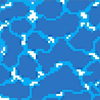
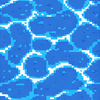
day 21 implemented grass, sand, water animations

diff --git a/src/render.py b/src/render.py
@@ -15,7 +15,7 @@ class Renderer:
         self.font = pygame.font.SysFont("rockwell", 20)
 
         self.tile_animation_tick = 0
-        self.tile_animation_speed = 15
+        self.tile_animation_speed = 5
         self.tile_animation_frame = 0
         self.tile_images = {
             "water":[
@@ -23,8 +23,16 @@ class Renderer:
                 pygame.image.load("data/assets/water_pixel_1.png").convert_alpha(),
                 pygame.image.load("data/assets/water_pixel_2.png").convert_alpha()
             ],
-            "sand": [pygame.image.load("data/assets/sand_pixel.png").convert_alpha()],
-            "grass": [pygame.image.load("data/assets/grass_pixel.png").convert_alpha()],
+            "sand":[
+                pygame.image.load("data/assets/sand_pixel_0.png").convert_alpha(),
+                pygame.image.load("data/assets/sand_pixel_1.png").convert_alpha(),
+                pygame.image.load("data/assets/sand_pixel_2.png").convert_alpha()
+            ],
+            "grass":[
+                pygame.image.load("data/assets/grass_pixel_0.png").convert_alpha(),
+                pygame.image.load("data/assets/grass_pixel_1.png").convert_alpha(),
+                pygame.image.load("data/assets/grass_pixel_2.png").convert_alpha()
+            ],
             "forest": [pygame.image.load("data/assets/forest_pixel.png").convert_alpha()],
             "mountain": [pygame.image.load("data/assets/mountain_pixel.png").convert_alpha()],
         }
